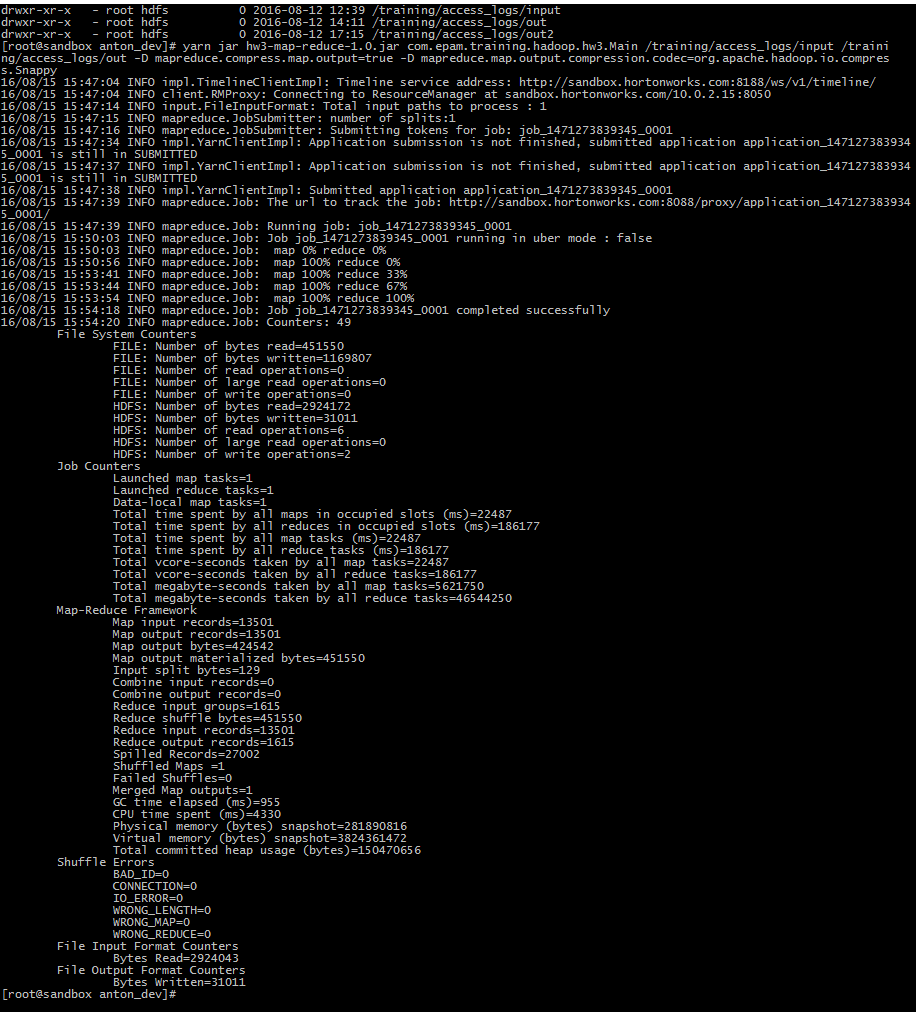
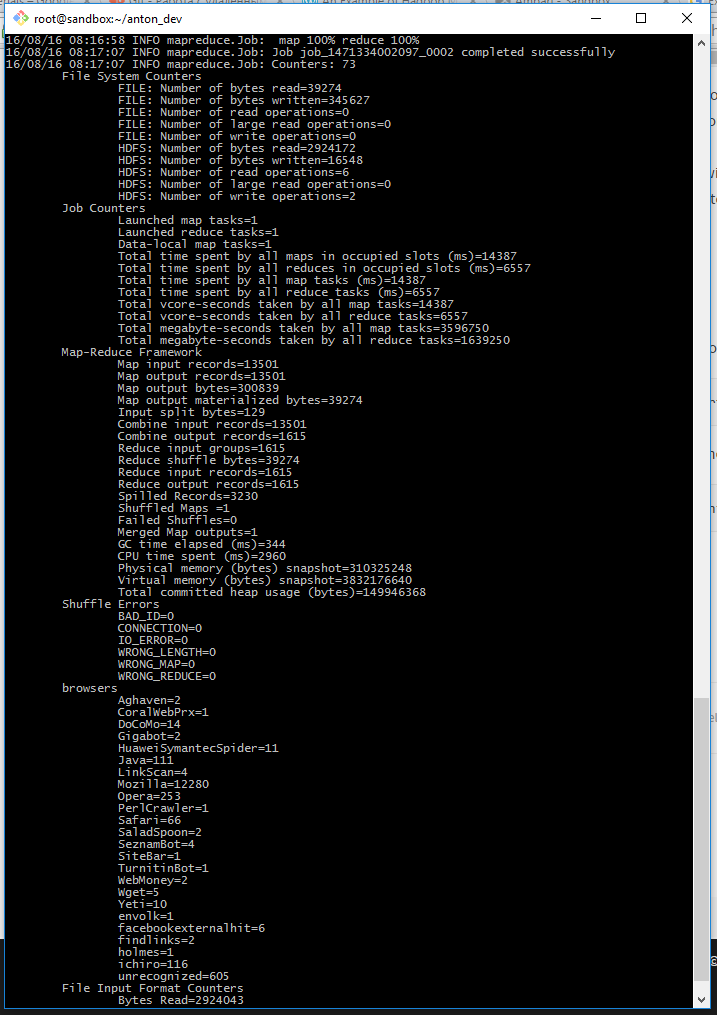
fix with counters api

Changed region(s): [[0.0, 0.0, 1.0, 1.0]]

diff --git a/hadoop-core/task3/map-reduce/src/main/java/com/epam/training/hadoop/hw3/mapreduce/utils/WritableInfo.java b/hadoop-core/task3/map-reduce/src/main/java/com/epam/training/hadoop/hw3/mapreduce/utils/WritableInfo.java
@@ -12,45 +12,35 @@ import java.io.IOException;
  */
 public class WritableInfo implements Writable {
 
-    private BytesInfo byteInfo;
-    private BrowserInfo browserInfo;
+    private Long bytes;
+    private Long countOfRequestsByIp;
 
     public WritableInfo() {
     }
 
-    public WritableInfo(BytesInfo byteInfo, BrowserInfo browserInfo) {
-        this.byteInfo = byteInfo;
-        this.browserInfo = browserInfo;
-    }
-
-    public Long getCountOfRequestsByIp() {
-        return byteInfo.getCountOfRequestsByIp();
+    public WritableInfo(Long bytes, Long countOfRequestsByIp) {
+        this.bytes = bytes;
+        this.countOfRequestsByIp = countOfRequestsByIp;
     }
 
     public Long getBytes() {
-        return byteInfo.getBytes();
+        return bytes;
     }
 
-    public String getBrowsersName() {
-        return browserInfo.getBrowserName();
+    public Long getCountOfRequestsByIp() {
+        return countOfRequestsByIp;
     }
 
     @Override
     public void write(DataOutput out) throws IOException {
         out.writeLong(getBytes());
         out.writeLong(getCountOfRequestsByIp());
-        out.writeUTF(getBrowsersName());
     }
 
     @Override
     public void readFields(DataInput in) throws IOException {
-        Long bytes = in.readLong();
-        Long countOfRequestsByIp = in.readLong();
-
-        String browserName = in.readUTF();
-
-        byteInfo = new BytesInfo(bytes, countOfRequestsByIp);
-        browserInfo = new BrowserInfo(browserName);
+        this.bytes = in.readLong();
+        this.countOfRequestsByIp = in.readLong();
     }
 
     @Override
@@ -60,15 +50,14 @@ public class WritableInfo implements Writable {
 
         WritableInfo that = (WritableInfo) o;
 
-        if (!byteInfo.equals(that.byteInfo)) return false;
-        return browserInfo.equals(that.browserInfo);
-
+        if (bytes != null ? !bytes.equals(that.bytes) : that.bytes != null) return false;
+        return countOfRequestsByIp != null ? countOfRequestsByIp.equals(that.countOfRequestsByIp) : that.countOfRequestsByIp == null;
     }
 
     @Override
     public int hashCode() {
-        int result = byteInfo.hashCode();
-        result = 31 * result + browserInfo.hashCode();
+        int result = bytes != null ? bytes.hashCode() : 0;
+        result = 31 * result + (countOfRequestsByIp != null ? countOfRequestsByIp.hashCode() : 0);
         return result;
     }
 }

diff --git a/hadoop-core/task3/map-reduce/src/test/java/com/epam/training/hadoop/hw3/mapreduce/MRTest.java b/hadoop-core/task3/map-reduce/src/test/java/com/epam/training/hadoop/hw3/mapreduce/MRTest.java
@@ -1,7 +1,5 @@
 package com.epam.training.hadoop.hw3.mapreduce;
 
-import com.epam.training.hadoop.hw3.mapreduce.utils.BrowserInfo;
-import com.epam.training.hadoop.hw3.mapreduce.utils.BytesInfo;
 import com.epam.training.hadoop.hw3.mapreduce.utils.WritableInfo;
 import org.apache.hadoop.io.LongWritable;
 import org.apache.hadoop.io.Text;
@@ -27,8 +25,6 @@ public class MRTest {
     private MapDriver<LongWritable, Text, Text, WritableInfo> mapDriver;
     private ReduceDriver<Text, WritableInfo, Text, Text> reduceDriver;
     private MapReduceDriver<LongWritable, Text, Text, WritableInfo, Text, Text> mapReduceDriver;
-    private BytesInfo byteInfo;
-    private BrowserInfo browserInfo;
     private Text key;
 
     @Before
@@ -46,22 +42,21 @@ public class MRTest {
         mapReduceDriver.setMapper(mapper);
         mapReduceDriver.setReducer(reducer);
 
-        byteInfo = new BytesInfo(Long.decode(TEST_BYTES), 1L);
-        browserInfo = new BrowserInfo(TEST_BROWSER_NAME);
         key = new Text(TEST_IP);
     }
 
     @Test
     public void testMap() throws Exception {
         mapDriver.withInput(new LongWritable(1), new Text(TEST_LINE));
-        mapDriver.withOutput(key, new WritableInfo(byteInfo, browserInfo));
+        mapDriver.withOutput(key, new WritableInfo(Long.decode(TEST_BYTES), 1L));
         mapDriver.runTest();
     }
 
     @Test
     public void testReduce() throws Exception {
-        reduceDriver.withInput(key, Collections.singletonList(new WritableInfo(byteInfo, browserInfo)));
-        reduceDriver.withOutput(key, new Text(String.format(",%d,%d", byteInfo.getBytes(), byteInfo.getBytes())));
+        WritableInfo info = new WritableInfo(Long.decode(TEST_BYTES), 1L);
+        reduceDriver.withInput(key, Collections.singletonList(info));
+        reduceDriver.withOutput(key, new Text(String.format(",%d,%d", info.getBytes(), info.getBytes())));
         reduceDriver.runTest();
     }
 

diff --git a/hadoop-core/task3/map-reduce/src/main/java/com/epam/training/hadoop/hw3/mapreduce/MapStatistic.java b/hadoop-core/task3/map-reduce/src/main/java/com/epam/training/hadoop/hw3/mapreduce/MapStatistic.java
@@ -1,11 +1,10 @@
 package com.epam.training.hadoop.hw3.mapreduce;
 
-import com.epam.training.hadoop.hw3.mapreduce.utils.BytesInfo;
 import com.epam.training.hadoop.hw3.mapreduce.utils.StringSearcher;
 import com.epam.training.hadoop.hw3.mapreduce.utils.WritableInfo;
-import com.epam.training.hadoop.hw3.mapreduce.utils.BrowserInfo;
 import org.apache.hadoop.io.LongWritable;
 import org.apache.hadoop.io.Text;
+import org.apache.hadoop.mapreduce.Counter;
 import org.apache.hadoop.mapreduce.Mapper;
 
 import java.io.IOException;
@@ -22,12 +21,10 @@ public class MapStatistic extends Mapper<LongWritable, Text, Text, WritableInfo>
         StringSearcher searcher = new StringSearcher(value.toString());
         String ip = searcher.getIp();
         Long bytes = Long.decode(searcher.getBytes());
-        String browser = searcher.getBrowserName();
-
-        BytesInfo byteInfo = new BytesInfo(bytes, 1L);
-        BrowserInfo browserInfo = new BrowserInfo(browser);
-
-        WritableInfo info = new WritableInfo(byteInfo, browserInfo);
+        String browserName = searcher.getBrowserName();
+        Counter counter = context.getCounter("browsers", browserName);
+        counter.increment(1L);
+        WritableInfo info = new WritableInfo(bytes, 1L);
         context.write(new Text(ip), info);
     }
 }

diff --git a/hadoop-core/task3/map-reduce/src/main/java/com/epam/training/hadoop/hw3/mapreduce/CombineStatistic.java b/hadoop-core/task3/map-reduce/src/main/java/com/epam/training/hadoop/hw3/mapreduce/CombineStatistic.java
@@ -8,29 +8,23 @@ import org.apache.hadoop.mapreduce.Reducer;
 import java.io.IOException;
 import java.util.Optional;
 import java.util.concurrent.atomic.LongAdder;
-import java.util.stream.Stream;
 
 /**
  * @author Anton_Solovev
- * @since 8/12/2016.
+ * @since 8/16/2016.
  */
-public class ReduceStatistic extends Reducer<Text, WritableInfo, Text, Text> {
-
+public class CombineStatistic extends Reducer<Text, WritableInfo, Text, WritableInfo> {
 
     @Override
     protected void reduce(Text key, Iterable<WritableInfo> values, Context context)
             throws IOException, InterruptedException {
 
-        LongAdder ipCounter = new LongAdder();
         CommonReducer reducer = new CommonReducer();
+        LongAdder ipCounter = new LongAdder();
         Optional<Long> reducedBytes = reducer.reduceStream(values, ipCounter);
 
-        Long byteSum = reducedBytes.orElseThrow(() -> new RuntimeException("cannot reduce to a number. bytes optional stream is null"));
-        Long byteAvg = (byteSum / ipCounter.sumThenReset());
-
-        String str = String.format(",%d,%d", byteAvg, byteSum);
-        context.write(key, new Text(str));
+        WritableInfo info = new WritableInfo(reducedBytes.orElse(0L), ipCounter.sumThenReset());
+        context.write(key, info);
     }
-
 
 }

diff --git a/hadoop-core/task3/map-reduce/src/main/java/com/epam/training/hadoop/hw3/Main.java b/hadoop-core/task3/map-reduce/src/main/java/com/epam/training/hadoop/hw3/Main.java
@@ -1,5 +1,6 @@
 package com.epam.training.hadoop.hw3;
 
+import com.epam.training.hadoop.hw3.mapreduce.CombineStatistic;
 import com.epam.training.hadoop.hw3.mapreduce.MapStatistic;
 import com.epam.training.hadoop.hw3.mapreduce.ReduceStatistic;
 import com.epam.training.hadoop.hw3.mapreduce.utils.WritableInfo;
@@ -40,7 +41,7 @@ public class Main extends Configured implements Tool {
 
         job.setMapperClass(MapStatistic.class);
         job.setReducerClass(ReduceStatistic.class);
-        job.setNumReduceTasks(1);
+        job.setCombinerClass(CombineStatistic.class);
 
         FileInputFormat.addInputPath(job, new Path(args[0]));
         FileOutputFormat.setOutputPath(job, new Path(args[1]));
@@ -52,8 +53,8 @@ public class Main extends Configured implements Tool {
     private static final String baseUrl = "hdfs://sandbox.hortonworks.com";
 
     public static void main(String[] args) throws Exception {
-        if (args.length < 2) {
-            System.err.println(" Usage: Main < input path > < output path > < params >");
+        if (args.length != 2) {
+            System.err.println(" Usage: Main < input path > < output path >");
             System.exit(-1);
         }
         Configuration conf = new Configuration();

diff --git a/hadoop-core/task3/map-reduce/src/main/java/com/epam/training/hadoop/hw3/mapreduce/utils/CommonReducer.java b/hadoop-core/task3/map-reduce/src/main/java/com/epam/training/hadoop/hw3/mapreduce/utils/CommonReducer.java
@@ -1,0 +1,24 @@
+package com.epam.training.hadoop.hw3.mapreduce.utils;
+
+import java.util.Optional;
+import java.util.concurrent.atomic.LongAdder;
+import java.util.stream.Stream;
+
+/**
+ * @author Anton_Solovev
+ * @since 8/16/2016.
+ */
+public class CommonReducer {
+
+    public Optional<Long> reduceStream(Iterable<WritableInfo> values, LongAdder ipCounter) {
+        Stream<Long> byteStream = Stream.of(values).flatMap(infos -> {
+            long sum = 0L;
+            for (WritableInfo i : infos) {
+                ipCounter.add(i.getCountOfRequestsByIp());
+                sum += i.getBytes();
+            }
+            return Stream.of(sum);
+        });
+        return byteStream.reduce((left, right) -> left + right);
+    }
+}

diff --git a/hadoop-core/task3/map-reduce/src/test/java/com/epam/training/hadoop/hw3/mapreduce/utils/StringSearcherTest.java b/hadoop-core/task3/map-reduce/src/test/java/com/epam/training/hadoop/hw3/mapreduce/utils/StringSearcherTest.java
@@ -1,6 +1,5 @@
 package com.epam.training.hadoop.hw3.mapreduce.utils;
 
-import com.epam.training.hadoop.hw3.mapreduce.mapreduce.utils.StringSearcher;
 import org.junit.Before;
 import org.junit.Test;
 
